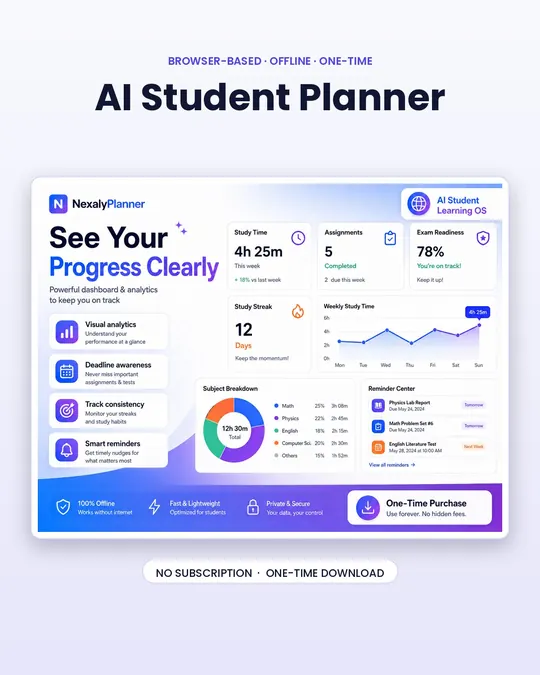
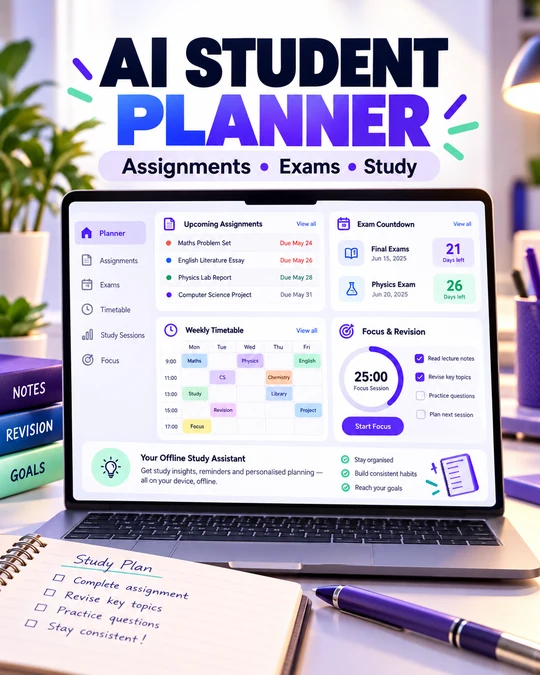
Refresh five product feature thumbnails (#94)

diff --git a/index.html b/index.html
@@ -83,12 +83,12 @@
 <a class="pcard" href="/planners/business-runway-burn-rate-os/" aria-label="Business Runway & Burn Rate OS — Offline Cash Runway Planner"><div class="pcover"><span class="heart"><svg viewBox="0 0 24 24" fill="currentColor"><path d="M12 21s-7-4.6-9.3-8.4C1 9.5 2.4 6 5.6 6c1.9 0 3.2 1.1 4.4 2.6C11.2 7.1 12.5 6 14.4 6c3.2 0 4.6 3.5 2.9 6.6C19 16.4 12 21 12 21z"/></svg></span><img src="/images/products/thumbs/business-runway-burn-rate-os.webp?v=20260928e" alt="Business Runway & Burn Rate OS — Offline Cash Runway Planner" width="400" height="500" loading="eager" fetchpriority="high" decoding="async"></div><div class="pcard-body"><h3>Business Runway & Burn Rate OS — Offline Cash Runway Planner</h3><div class="pr">$11.99</div></div></a>
 <a class="pcard" href="/planners/cashflow-13-os/" aria-label="CashFlow 13 OS — Offline 13-Week Cash Flow Planner"><div class="pcover"><span class="heart"><svg viewBox="0 0 24 24" fill="currentColor"><path d="M12 21s-7-4.6-9.3-8.4C1 9.5 2.4 6 5.6 6c1.9 0 3.2 1.1 4.4 2.6C11.2 7.1 12.5 6 14.4 6c3.2 0 4.6 3.5 2.9 6.6C19 16.4 12 21 12 21z"/></svg></span><img src="/images/products/thumbs/cashflow-13-os.webp?v=20260928e" alt="CashFlow 13 OS — Offline 13-Week Cash Flow Planner" width="400" height="500" loading="lazy" decoding="async"></div><div class="pcard-body"><h3>CashFlow 13 OS — Offline 13-Week Cash Flow Planner</h3><div class="pr">$11.99</div></div></a>
 <a class="pcard" href="/planners/agency-client-profitability-capacity-os/" aria-label="Agency Client Profitability & Capacity OS"><div class="pcover"><span class="heart"><svg viewBox="0 0 24 24" fill="currentColor"><path d="M12 21s-7-4.6-9.3-8.4C1 9.5 2.4 6 5.6 6c1.9 0 3.2 1.1 4.4 2.6C11.2 7.1 12.5 6 14.4 6c3.2 0 4.6 3.5 2.9 6.6C19 16.4 12 21 12 21z"/></svg></span><img src="/images/products/thumbs/agency-client-profitability-capacity-os.webp?v=20260928e" alt="Agency Client Profitability & Capacity OS" width="400" height="500" loading="lazy" decoding="async"></div><div class="pcard-body"><h3>Agency Client Profitability & Capacity OS</h3><div class="pr">$11.99</div></div></a>
-<a class="pcard" href="/planners/renewguard-os/" aria-label="RenewGuard OS — Offline Contract Renewal Operating System"><div class="pcover"><span class="heart"><svg viewBox="0 0 24 24" fill="currentColor"><path d="M12 21s-7-4.6-9.3-8.4C1 9.5 2.4 6 5.6 6c1.9 0 3.2 1.1 4.4 2.6C11.2 7.1 12.5 6 14.4 6c3.2 0 4.6 3.5 2.9 6.6C19 16.4 12 21 12 21z"/></svg></span><img src="/images/products/thumbs/renewguard-os.jpg?v=20260928b" alt="RenewGuard OS — Offline Contract Renewal Operating System" width="400" height="500" loading="lazy" decoding="async"></div><div class="pcard-body"><h3>RenewGuard OS — Offline Contract Renewal Operating System</h3><div class="pr">$11.99</div></div></a>
-<a class="pcard" href="/planners/consignclear-os/" aria-label="ConsignClear OS — Consignment Inventory & Payout Manager"><div class="pcover"><span class="heart"><svg viewBox="0 0 24 24" fill="currentColor"><path d="M12 21s-7-4.6-9.3-8.4C1 9.5 2.4 6 5.6 6c1.9 0 3.2 1.1 4.4 2.6C11.2 7.1 12.5 6 14.4 6c3.2 0 4.6 3.5 2.9 6.6C19 16.4 12 21 12 21z"/></svg></span><img src="/images/products/thumbs/consignclear-os-v3.webp" alt="ConsignClear OS — Consignment Inventory & Payout Manager" width="400" height="500" loading="lazy" decoding="async"></div><div class="pcard-body"><h3>ConsignClear OS — Consignment Inventory & Payout Manager</h3><div class="pr">$11.99</div></div></a>
-<a class="pcard" href="/planners/calibratrack-os/" aria-label="CalibraTrack OS — Calibration & Instrument Service Manager"><div class="pcover"><span class="heart"><svg viewBox="0 0 24 24" fill="currentColor"><path d="M12 21s-7-4.6-9.3-8.4C1 9.5 2.4 6 5.6 6c1.9 0 3.2 1.1 4.4 2.6C11.2 7.1 12.5 6 14.4 6c3.2 0 4.6 3.5 2.9 6.6C19 16.4 12 21 12 21z"/></svg></span><img src="/images/products/thumbs/calibratrack-os-v3.webp" alt="CalibraTrack OS — Calibration & Instrument Service Manager" width="400" height="500" loading="lazy" decoding="async"></div><div class="pcard-body"><h3>CalibraTrack OS — Calibration & Instrument Service Manager</h3><div class="pr">$11.99</div></div></a>
+<a class="pcard" href="/planners/renewguard-os/" aria-label="RenewGuard OS — Offline Contract Renewal Operating System"><div class="pcover"><span class="heart"><svg viewBox="0 0 24 24" fill="currentColor"><path d="M12 21s-7-4.6-9.3-8.4C1 9.5 2.4 6 5.6 6c1.9 0 3.2 1.1 4.4 2.6C11.2 7.1 12.5 6 14.4 6c3.2 0 4.6 3.5 2.9 6.6C19 16.4 12 21 12 21z"/></svg></span><img src="/images/products/thumbs/renewguard-os.jpg?v=20260928g" alt="RenewGuard OS — Offline Contract Renewal Operating System" width="400" height="500" loading="lazy" decoding="async"></div><div class="pcard-body"><h3>RenewGuard OS — Offline Contract Renewal Operating System</h3><div class="pr">$11.99</div></div></a>
+<a class="pcard" href="/planners/consignclear-os/" aria-label="ConsignClear OS — Consignment Inventory & Payout Manager"><div class="pcover"><span class="heart"><svg viewBox="0 0 24 24" fill="currentColor"><path d="M12 21s-7-4.6-9.3-8.4C1 9.5 2.4 6 5.6 6c1.9 0 3.2 1.1 4.4 2.6C11.2 7.1 12.5 6 14.4 6c3.2 0 4.6 3.5 2.9 6.6C19 16.4 12 21 12 21z"/></svg></span><img src="/images/products/thumbs/consignclear-os-v3.webp?v=20260928g" alt="ConsignClear OS — Consignment Inventory & Payout Manager" width="400" height="500" loading="lazy" decoding="async"></div><div class="pcard-body"><h3>ConsignClear OS — Consignment Inventory & Payout Manager</h3><div class="pr">$11.99</div></div></a>
+<a class="pcard" href="/planners/calibratrack-os/" aria-label="CalibraTrack OS — Calibration & Instrument Service Manager"><div class="pcover"><span class="heart"><svg viewBox="0 0 24 24" fill="currentColor"><path d="M12 21s-7-4.6-9.3-8.4C1 9.5 2.4 6 5.6 6c1.9 0 3.2 1.1 4.4 2.6C11.2 7.1 12.5 6 14.4 6c3.2 0 4.6 3.5 2.9 6.6C19 16.4 12 21 12 21z"/></svg></span><img src="/images/products/thumbs/calibratrack-os-v3.webp?v=20260928g" alt="CalibraTrack OS — Calibration & Instrument Service Manager" width="400" height="500" loading="lazy" decoding="async"></div><div class="pcard-body"><h3>CalibraTrack OS — Calibration & Instrument Service Manager</h3><div class="pr">$11.99</div></div></a>
 <a class="pcard" href="/planners/repairbench-os/" aria-label="RepairBench OS — Small Engine Repair Shop Manager"><div class="pcover"><span class="heart"><svg viewBox="0 0 24 24" fill="currentColor"><path d="M12 21s-7-4.6-9.3-8.4C1 9.5 2.4 6 5.6 6c1.9 0 3.2 1.1 4.4 2.6C11.2 7.1 12.5 6 14.4 6c3.2 0 4.6 3.5 2.9 6.6C19 16.4 12 21 12 21z"/></svg></span><img src="/images/products/thumbs/repairbench-os.webp?v=20260928d" alt="RepairBench OS — Small Engine Repair Shop Manager" width="400" height="500" loading="lazy" decoding="async"></div><div class="pcard-body"><h3>RepairBench OS — Small Engine Repair Shop Manager</h3><div class="pr">$11.99</div></div></a>
-<a class="pcard" href="/planners/ai-student-planner/" aria-label="AI Student Planner — Offline Study Planner, Assignment Tracker & Exam Planner"><div class="pcover"><span class="heart"><svg viewBox="0 0 24 24" fill="currentColor"><path d="M12 21s-7-4.6-9.3-8.4C1 9.5 2.4 6 5.6 6c1.9 0 3.2 1.1 4.4 2.6C11.2 7.1 12.5 6 14.4 6c3.2 0 4.6 3.5 2.9 6.6C19 16.4 12 21 12 21z"/></svg></span><img src="/images/products/thumbs/ai-student-planner.webp" alt="AI Student Planner — Offline Study Planner, Assignment Tracker & Exam Planner" width="400" height="500" loading="lazy" decoding="async"></div><div class="pcard-body"><h3>AI Student Planner — Offline Study Planner, Assignment Tracker & Exam Planner</h3><div class="pr">$11.99</div></div></a>
-<a class="pcard" href="/planners/digital-homeschool-planner/" aria-label="Digital Homeschool Planner — Offline Multi-Kid Dashboard, Gradebook & Transcript"><div class="pcover"><span class="heart"><svg viewBox="0 0 24 24" fill="currentColor"><path d="M12 21s-7-4.6-9.3-8.4C1 9.5 2.4 6 5.6 6c1.9 0 3.2 1.1 4.4 2.6C11.2 7.1 12.5 6 14.4 6c3.2 0 4.6 3.5 2.9 6.6C19 16.4 12 21 12 21z"/></svg></span><img src="/images/products/thumbs/digital-homeschool-planner.webp" alt="Digital Homeschool Planner — Offline Multi-Kid Dashboard, Gradebook & Transcript" width="400" height="500" loading="lazy" decoding="async"></div><div class="pcard-body"><h3>Digital Homeschool Planner — Offline Multi-Kid Dashboard, Gradebook & Transcript</h3><div class="pr">$11.99</div></div></a>
+<a class="pcard" href="/planners/ai-student-planner/" aria-label="AI Student Planner — Offline Study Planner, Assignment Tracker & Exam Planner"><div class="pcover"><span class="heart"><svg viewBox="0 0 24 24" fill="currentColor"><path d="M12 21s-7-4.6-9.3-8.4C1 9.5 2.4 6 5.6 6c1.9 0 3.2 1.1 4.4 2.6C11.2 7.1 12.5 6 14.4 6c3.2 0 4.6 3.5 2.9 6.6C19 16.4 12 21 12 21z"/></svg></span><img src="/images/products/thumbs/ai-student-planner.webp?v=20260928g" alt="AI Student Planner — Offline Study Planner, Assignment Tracker & Exam Planner" width="400" height="500" loading="lazy" decoding="async"></div><div class="pcard-body"><h3>AI Student Planner — Offline Study Planner, Assignment Tracker & Exam Planner</h3><div class="pr">$11.99</div></div></a>
+<a class="pcard" href="/planners/digital-homeschool-planner/" aria-label="Digital Homeschool Planner — Offline Multi-Kid Dashboard, Gradebook & Transcript"><div class="pcover"><span class="heart"><svg viewBox="0 0 24 24" fill="currentColor"><path d="M12 21s-7-4.6-9.3-8.4C1 9.5 2.4 6 5.6 6c1.9 0 3.2 1.1 4.4 2.6C11.2 7.1 12.5 6 14.4 6c3.2 0 4.6 3.5 2.9 6.6C19 16.4 12 21 12 21z"/></svg></span><img src="/images/products/thumbs/digital-homeschool-planner.webp?v=20260928g" alt="Digital Homeschool Planner — Offline Multi-Kid Dashboard, Gradebook & Transcript" width="400" height="500" loading="lazy" decoding="async"></div><div class="pcard-body"><h3>Digital Homeschool Planner — Offline Multi-Kid Dashboard, Gradebook & Transcript</h3><div class="pr">$11.99</div></div></a>
 <a class="pcard" href="/planners/adhd-digital-planner/" aria-label="ADHD Digital Planner — Focus, Tasks, Routines & Goals"><div class="pcover"><span class="heart"><svg viewBox="0 0 24 24" fill="currentColor"><path d="M12 21s-7-4.6-9.3-8.4C1 9.5 2.4 6 5.6 6c1.9 0 3.2 1.1 4.4 2.6C11.2 7.1 12.5 6 14.4 6c3.2 0 4.6 3.5 2.9 6.6C19 16.4 12 21 12 21z"/></svg></span><img src="/images/products/thumbs/adhd-digital-planner.webp?v=20260928b" alt="ADHD Digital Planner — Focus, Tasks, Routines & Goals" width="400" height="500" loading="lazy" decoding="async" style="object-fit:contain;object-position:center;background:#0f1726"></div><div class="pcard-body"><h3>ADHD Digital Planner — Focus, Tasks, Routines & Goals</h3><div class="pr">$11.99</div></div></a>
 <a class="pcard" href="/planners/boutique-business-planner/" aria-label="Boutique Business Planner — Orders, Inventory, Pricing & Profit Dashboard"><div class="pcover"><span class="heart"><svg viewBox="0 0 24 24" fill="currentColor"><path d="M12 21s-7-4.6-9.3-8.4C1 9.5 2.4 6 5.6 6c1.9 0 3.2 1.1 4.4 2.6C11.2 7.1 12.5 6 14.4 6c3.2 0 4.6 3.5 2.9 6.6C19 16.4 12 21 12 21z"/></svg></span><img src="/images/products/thumbs/boutique-business-planner.webp?v=20260928c" alt="Boutique Business Planner — Orders, Inventory, Pricing & Profit Dashboard" width="400" height="500" loading="lazy" decoding="async" style="object-fit:contain;object-position:center;background:#0f1726"></div><div class="pcard-body"><h3>Boutique Business Planner — Orders, Inventory, Pricing & Profit Dashboard</h3><div class="pr">$11.99</div></div></a>
 <a class="pcard" href="/planners/small-business-planner-2026-2028/" aria-label="2026–2028 Small Business Planner — Goals, Tasks, Habits & Finance Tracker"><div class="pcover"><span class="heart"><svg viewBox="0 0 24 24" fill="currentColor"><path d="M12 21s-7-4.6-9.3-8.4C1 9.5 2.4 6 5.6 6c1.9 0 3.2 1.1 4.4 2.6C11.2 7.1 12.5 6 14.4 6c3.2 0 4.6 3.5 2.9 6.6C19 16.4 12 21 12 21z"/></svg></span><img src="/images/products/thumbs/small-business-planner-2026-2028.webp?v=20260928b" alt="2026–2028 Small Business Planner — Goals, Tasks, Habits & Finance Tracker" width="400" height="500" loading="lazy" decoding="async" style="object-fit:contain;object-position:center;background:#0f1726"></div><div class="pcard-body"><h3>2026–2028 Small Business Planner — Goals, Tasks, Habits & Finance Tracker</h3><div class="pr">$11.99</div></div></a>
@@ -156,6 +156,6 @@
     <div class="foot-bottom"><span>© 2026 Nexaly Planner. All rights reserved.</span><span>Made for people who like their days organized.</span></div>
   </div>
 </footer>
-<script src="/assets/js/main.js?v=4b9ec8816b4b"></script>
+<script src="/assets/js/main.js?v=938bbfec9e02"></script>
 </body>
 </html>

diff --git a/planners/index.html b/planners/index.html
@@ -64,12 +64,12 @@
 <a class="pcard" href="/planners/business-runway-burn-rate-os/" aria-label="Business Runway & Burn Rate OS — Offline Cash Runway Planner"><div class="pcover"><span class="heart"><svg viewBox="0 0 24 24" fill="currentColor"><path d="M12 21s-7-4.6-9.3-8.4C1 9.5 2.4 6 5.6 6c1.9 0 3.2 1.1 4.4 2.6C11.2 7.1 12.5 6 14.4 6c3.2 0 4.6 3.5 2.9 6.6C19 16.4 12 21 12 21z"/></svg></span><img src="/images/products/thumbs/business-runway-burn-rate-os.webp?v=20260928e" alt="Business Runway & Burn Rate OS — Offline Cash Runway Planner" width="400" height="500" loading="eager" fetchpriority="high" decoding="async"></div><div class="pcard-body"><h3>Business Runway & Burn Rate OS — Offline Cash Runway Planner</h3><div class="pr">$11.99</div></div></a>
 <a class="pcard" href="/planners/cashflow-13-os/" aria-label="CashFlow 13 OS — Offline 13-Week Cash Flow Planner"><div class="pcover"><span class="heart"><svg viewBox="0 0 24 24" fill="currentColor"><path d="M12 21s-7-4.6-9.3-8.4C1 9.5 2.4 6 5.6 6c1.9 0 3.2 1.1 4.4 2.6C11.2 7.1 12.5 6 14.4 6c3.2 0 4.6 3.5 2.9 6.6C19 16.4 12 21 12 21z"/></svg></span><img src="/images/products/thumbs/cashflow-13-os.webp?v=20260928e" alt="CashFlow 13 OS — Offline 13-Week Cash Flow Planner" width="400" height="500" loading="lazy" decoding="async"></div><div class="pcard-body"><h3>CashFlow 13 OS — Offline 13-Week Cash Flow Planner</h3><div class="pr">$11.99</div></div></a>
 <a class="pcard" href="/planners/agency-client-profitability-capacity-os/" aria-label="Agency Client Profitability & Capacity OS"><div class="pcover"><span class="heart"><svg viewBox="0 0 24 24" fill="currentColor"><path d="M12 21s-7-4.6-9.3-8.4C1 9.5 2.4 6 5.6 6c1.9 0 3.2 1.1 4.4 2.6C11.2 7.1 12.5 6 14.4 6c3.2 0 4.6 3.5 2.9 6.6C19 16.4 12 21 12 21z"/></svg></span><img src="/images/products/thumbs/agency-client-profitability-capacity-os.webp?v=20260928e" alt="Agency Client Profitability & Capacity OS" width="400" height="500" loading="lazy" decoding="async"></div><div class="pcard-body"><h3>Agency Client Profitability & Capacity OS</h3><div class="pr">$11.99</div></div></a>
-<a class="pcard" href="/planners/renewguard-os/" aria-label="RenewGuard OS — Offline Contract Renewal Operating System"><div class="pcover"><span class="heart"><svg viewBox="0 0 24 24" fill="currentColor"><path d="M12 21s-7-4.6-9.3-8.4C1 9.5 2.4 6 5.6 6c1.9 0 3.2 1.1 4.4 2.6C11.2 7.1 12.5 6 14.4 6c3.2 0 4.6 3.5 2.9 6.6C19 16.4 12 21 12 21z"/></svg></span><img src="/images/products/thumbs/renewguard-os.jpg?v=20260928b" alt="RenewGuard OS — Offline Contract Renewal Operating System" width="400" height="500" loading="lazy" decoding="async"></div><div class="pcard-body"><h3>RenewGuard OS — Offline Contract Renewal Operating System</h3><div class="pr">$11.99</div></div></a>
-<a class="pcard" href="/planners/consignclear-os/" aria-label="ConsignClear OS — Consignment Inventory & Payout Manager"><div class="pcover"><span class="heart"><svg viewBox="0 0 24 24" fill="currentColor"><path d="M12 21s-7-4.6-9.3-8.4C1 9.5 2.4 6 5.6 6c1.9 0 3.2 1.1 4.4 2.6C11.2 7.1 12.5 6 14.4 6c3.2 0 4.6 3.5 2.9 6.6C19 16.4 12 21 12 21z"/></svg></span><img src="/images/products/thumbs/consignclear-os-v3.webp" alt="ConsignClear OS — Consignment Inventory & Payout Manager" width="400" height="500" loading="lazy" decoding="async"></div><div class="pcard-body"><h3>ConsignClear OS — Consignment Inventory & Payout Manager</h3><div class="pr">$11.99</div></div></a>
-<a class="pcard" href="/planners/calibratrack-os/" aria-label="CalibraTrack OS — Calibration & Instrument Service Manager"><div class="pcover"><span class="heart"><svg viewBox="0 0 24 24" fill="currentColor"><path d="M12 21s-7-4.6-9.3-8.4C1 9.5 2.4 6 5.6 6c1.9 0 3.2 1.1 4.4 2.6C11.2 7.1 12.5 6 14.4 6c3.2 0 4.6 3.5 2.9 6.6C19 16.4 12 21 12 21z"/></svg></span><img src="/images/products/thumbs/calibratrack-os-v3.webp" alt="CalibraTrack OS — Calibration & Instrument Service Manager" width="400" height="500" loading="lazy" decoding="async"></div><div class="pcard-body"><h3>CalibraTrack OS — Calibration & Instrument Service Manager</h3><div class="pr">$11.99</div></div></a>
+<a class="pcard" href="/planners/renewguard-os/" aria-label="RenewGuard OS — Offline Contract Renewal Operating System"><div class="pcover"><span class="heart"><svg viewBox="0 0 24 24" fill="currentColor"><path d="M12 21s-7-4.6-9.3-8.4C1 9.5 2.4 6 5.6 6c1.9 0 3.2 1.1 4.4 2.6C11.2 7.1 12.5 6 14.4 6c3.2 0 4.6 3.5 2.9 6.6C19 16.4 12 21 12 21z"/></svg></span><img src="/images/products/thumbs/renewguard-os.jpg?v=20260928g" alt="RenewGuard OS — Offline Contract Renewal Operating System" width="400" height="500" loading="lazy" decoding="async"></div><div class="pcard-body"><h3>RenewGuard OS — Offline Contract Renewal Operating System</h3><div class="pr">$11.99</div></div></a>
+<a class="pcard" href="/planners/consignclear-os/" aria-label="ConsignClear OS — Consignment Inventory & Payout Manager"><div class="pcover"><span class="heart"><svg viewBox="0 0 24 24" fill="currentColor"><path d="M12 21s-7-4.6-9.3-8.4C1 9.5 2.4 6 5.6 6c1.9 0 3.2 1.1 4.4 2.6C11.2 7.1 12.5 6 14.4 6c3.2 0 4.6 3.5 2.9 6.6C19 16.4 12 21 12 21z"/></svg></span><img src="/images/products/thumbs/consignclear-os-v3.webp?v=20260928g" alt="ConsignClear OS — Consignment Inventory & Payout Manager" width="400" height="500" loading="lazy" decoding="async"></div><div class="pcard-body"><h3>ConsignClear OS — Consignment Inventory & Payout Manager</h3><div class="pr">$11.99</div></div></a>
+<a class="pcard" href="/planners/calibratrack-os/" aria-label="CalibraTrack OS — Calibration & Instrument Service Manager"><div class="pcover"><span class="heart"><svg viewBox="0 0 24 24" fill="currentColor"><path d="M12 21s-7-4.6-9.3-8.4C1 9.5 2.4 6 5.6 6c1.9 0 3.2 1.1 4.4 2.6C11.2 7.1 12.5 6 14.4 6c3.2 0 4.6 3.5 2.9 6.6C19 16.4 12 21 12 21z"/></svg></span><img src="/images/products/thumbs/calibratrack-os-v3.webp?v=20260928g" alt="CalibraTrack OS — Calibration & Instrument Service Manager" width="400" height="500" loading="lazy" decoding="async"></div><div class="pcard-body"><h3>CalibraTrack OS — Calibration & Instrument Service Manager</h3><div class="pr">$11.99</div></div></a>
 <a class="pcard" href="/planners/repairbench-os/" aria-label="RepairBench OS — Small Engine Repair Shop Manager"><div class="pcover"><span class="heart"><svg viewBox="0 0 24 24" fill="currentColor"><path d="M12 21s-7-4.6-9.3-8.4C1 9.5 2.4 6 5.6 6c1.9 0 3.2 1.1 4.4 2.6C11.2 7.1 12.5 6 14.4 6c3.2 0 4.6 3.5 2.9 6.6C19 16.4 12 21 12 21z"/></svg></span><img src="/images/products/thumbs/repairbench-os.webp?v=20260928d" alt="RepairBench OS — Small Engine Repair Shop Manager" width="400" height="500" loading="lazy" decoding="async"></div><div class="pcard-body"><h3>RepairBench OS — Small Engine Repair Shop Manager</h3><div class="pr">$11.99</div></div></a>
-<a class="pcard" href="/planners/ai-student-planner/" aria-label="AI Student Planner — Offline Study Planner, Assignment Tracker & Exam Planner"><div class="pcover"><span class="heart"><svg viewBox="0 0 24 24" fill="currentColor"><path d="M12 21s-7-4.6-9.3-8.4C1 9.5 2.4 6 5.6 6c1.9 0 3.2 1.1 4.4 2.6C11.2 7.1 12.5 6 14.4 6c3.2 0 4.6 3.5 2.9 6.6C19 16.4 12 21 12 21z"/></svg></span><img src="/images/products/thumbs/ai-student-planner.webp" alt="AI Student Planner — Offline Study Planner, Assignment Tracker & Exam Planner" width="400" height="500" loading="lazy" decoding="async"></div><div class="pcard-body"><h3>AI Student Planner — Offline Study Planner, Assignment Tracker & Exam Planner</h3><div class="pr">$11.99</div></div></a>
-<a class="pcard" href="/planners/digital-homeschool-planner/" aria-label="Digital Homeschool Planner — Offline Multi-Kid Dashboard, Gradebook & Transcript"><div class="pcover"><span class="heart"><svg viewBox="0 0 24 24" fill="currentColor"><path d="M12 21s-7-4.6-9.3-8.4C1 9.5 2.4 6 5.6 6c1.9 0 3.2 1.1 4.4 2.6C11.2 7.1 12.5 6 14.4 6c3.2 0 4.6 3.5 2.9 6.6C19 16.4 12 21 12 21z"/></svg></span><img src="/images/products/thumbs/digital-homeschool-planner.webp" alt="Digital Homeschool Planner — Offline Multi-Kid Dashboard, Gradebook & Transcript" width="400" height="500" loading="lazy" decoding="async"></div><div class="pcard-body"><h3>Digital Homeschool Planner — Offline Multi-Kid Dashboard, Gradebook & Transcript</h3><div class="pr">$11.99</div></div></a>
+<a class="pcard" href="/planners/ai-student-planner/" aria-label="AI Student Planner — Offline Study Planner, Assignment Tracker & Exam Planner"><div class="pcover"><span class="heart"><svg viewBox="0 0 24 24" fill="currentColor"><path d="M12 21s-7-4.6-9.3-8.4C1 9.5 2.4 6 5.6 6c1.9 0 3.2 1.1 4.4 2.6C11.2 7.1 12.5 6 14.4 6c3.2 0 4.6 3.5 2.9 6.6C19 16.4 12 21 12 21z"/></svg></span><img src="/images/products/thumbs/ai-student-planner.webp?v=20260928g" alt="AI Student Planner — Offline Study Planner, Assignment Tracker & Exam Planner" width="400" height="500" loading="lazy" decoding="async"></div><div class="pcard-body"><h3>AI Student Planner — Offline Study Planner, Assignment Tracker & Exam Planner</h3><div class="pr">$11.99</div></div></a>
+<a class="pcard" href="/planners/digital-homeschool-planner/" aria-label="Digital Homeschool Planner — Offline Multi-Kid Dashboard, Gradebook & Transcript"><div class="pcover"><span class="heart"><svg viewBox="0 0 24 24" fill="currentColor"><path d="M12 21s-7-4.6-9.3-8.4C1 9.5 2.4 6 5.6 6c1.9 0 3.2 1.1 4.4 2.6C11.2 7.1 12.5 6 14.4 6c3.2 0 4.6 3.5 2.9 6.6C19 16.4 12 21 12 21z"/></svg></span><img src="/images/products/thumbs/digital-homeschool-planner.webp?v=20260928g" alt="Digital Homeschool Planner — Offline Multi-Kid Dashboard, Gradebook & Transcript" width="400" height="500" loading="lazy" decoding="async"></div><div class="pcard-body"><h3>Digital Homeschool Planner — Offline Multi-Kid Dashboard, Gradebook & Transcript</h3><div class="pr">$11.99</div></div></a>
 <a class="pcard" href="/planners/adhd-digital-planner/" aria-label="ADHD Digital Planner — Focus, Tasks, Routines & Goals"><div class="pcover"><span class="heart"><svg viewBox="0 0 24 24" fill="currentColor"><path d="M12 21s-7-4.6-9.3-8.4C1 9.5 2.4 6 5.6 6c1.9 0 3.2 1.1 4.4 2.6C11.2 7.1 12.5 6 14.4 6c3.2 0 4.6 3.5 2.9 6.6C19 16.4 12 21 12 21z"/></svg></span><img src="/images/products/thumbs/adhd-digital-planner.webp?v=20260928b" alt="ADHD Digital Planner — Focus, Tasks, Routines & Goals" width="400" height="500" loading="lazy" decoding="async" style="object-fit:contain;object-position:center;background:#0f1726"></div><div class="pcard-body"><h3>ADHD Digital Planner — Focus, Tasks, Routines & Goals</h3><div class="pr">$11.99</div></div></a>
 <a class="pcard" href="/planners/boutique-business-planner/" aria-label="Boutique Business Planner — Orders, Inventory, Pricing & Profit Dashboard"><div class="pcover"><span class="heart"><svg viewBox="0 0 24 24" fill="currentColor"><path d="M12 21s-7-4.6-9.3-8.4C1 9.5 2.4 6 5.6 6c1.9 0 3.2 1.1 4.4 2.6C11.2 7.1 12.5 6 14.4 6c3.2 0 4.6 3.5 2.9 6.6C19 16.4 12 21 12 21z"/></svg></span><img src="/images/products/thumbs/boutique-business-planner.webp?v=20260928c" alt="Boutique Business Planner — Orders, Inventory, Pricing & Profit Dashboard" width="400" height="500" loading="lazy" decoding="async" style="object-fit:contain;object-position:center;background:#0f1726"></div><div class="pcard-body"><h3>Boutique Business Planner — Orders, Inventory, Pricing & Profit Dashboard</h3><div class="pr">$11.99</div></div></a>
 <a class="pcard" href="/planners/small-business-planner-2026-2028/" aria-label="2026–2028 Small Business Planner — Goals, Tasks, Habits & Finance Tracker"><div class="pcover"><span class="heart"><svg viewBox="0 0 24 24" fill="currentColor"><path d="M12 21s-7-4.6-9.3-8.4C1 9.5 2.4 6 5.6 6c1.9 0 3.2 1.1 4.4 2.6C11.2 7.1 12.5 6 14.4 6c3.2 0 4.6 3.5 2.9 6.6C19 16.4 12 21 12 21z"/></svg></span><img src="/images/products/thumbs/small-business-planner-2026-2028.webp?v=20260928b" alt="2026–2028 Small Business Planner — Goals, Tasks, Habits & Finance Tracker" width="400" height="500" loading="lazy" decoding="async" style="object-fit:contain;object-position:center;background:#0f1726"></div><div class="pcard-body"><h3>2026–2028 Small Business Planner — Goals, Tasks, Habits & Finance Tracker</h3><div class="pr">$11.99</div></div></a>
@@ -134,6 +134,6 @@
     <div class="foot-bottom"><span>© 2026 Nexaly Planner. All rights reserved.</span><span>Made for people who like their days organized.</span></div>
   </div>
 </footer>
-<script src="/assets/js/main.js?v=4b9ec8816b4b"></script>
+<script src="/assets/js/main.js?v=938bbfec9e02"></script>
 </body>
 </html>

diff --git a/planners/business-operating-systems/index.html b/planners/business-operating-systems/index.html
@@ -64,9 +64,9 @@
 <a class="pcard" href="/planners/business-runway-burn-rate-os/" aria-label="Business Runway & Burn Rate OS — Offline Cash Runway Planner"><div class="pcover"><span class="heart"><svg viewBox="0 0 24 24" fill="currentColor"><path d="M12 21s-7-4.6-9.3-8.4C1 9.5 2.4 6 5.6 6c1.9 0 3.2 1.1 4.4 2.6C11.2 7.1 12.5 6 14.4 6c3.2 0 4.6 3.5 2.9 6.6C19 16.4 12 21 12 21z"/></svg></span><img src="/images/products/thumbs/business-runway-burn-rate-os.webp?v=20260928e" alt="Business Runway & Burn Rate OS — Offline Cash Runway Planner" width="400" height="500" loading="eager" fetchpriority="high" decoding="async"></div><div class="pcard-body"><h3>Business Runway & Burn Rate OS — Offline Cash Runway Planner</h3><div class="pr">$11.99</div></div></a>
 <a class="pcard" href="/planners/cashflow-13-os/" aria-label="CashFlow 13 OS — Offline 13-Week Cash Flow Planner"><div class="pcover"><span class="heart"><svg viewBox="0 0 24 24" fill="currentColor"><path d="M12 21s-7-4.6-9.3-8.4C1 9.5 2.4 6 5.6 6c1.9 0 3.2 1.1 4.4 2.6C11.2 7.1 12.5 6 14.4 6c3.2 0 4.6 3.5 2.9 6.6C19 16.4 12 21 12 21z"/></svg></span><img src="/images/products/thumbs/cashflow-13-os.webp?v=20260928e" alt="CashFlow 13 OS — Offline 13-Week Cash Flow Planner" width="400" height="500" loading="lazy" decoding="async"></div><div class="pcard-body"><h3>CashFlow 13 OS — Offline 13-Week Cash Flow Planner</h3><div class="pr">$11.99</div></div></a>
 <a class="pcard" href="/planners/agency-client-profitability-capacity-os/" aria-label="Agency Client Profitability & Capacity OS"><div class="pcover"><span class="heart"><svg viewBox="0 0 24 24" fill="currentColor"><path d="M12 21s-7-4.6-9.3-8.4C1 9.5 2.4 6 5.6 6c1.9 0 3.2 1.1 4.4 2.6C11.2 7.1 12.5 6 14.4 6c3.2 0 4.6 3.5 2.9 6.6C19 16.4 12 21 12 21z"/></svg></span><img src="/images/products/thumbs/agency-client-profitability-capacity-os.webp?v=20260928e" alt="Agency Client Profitability & Capacity OS" width="400" height="500" loading="lazy" decoding="async"></div><div class="pcard-body"><h3>Agency Client Profitability & Capacity OS</h3><div class="pr">$11.99</div></div></a>
-<a class="pcard" href="/planners/renewguard-os/" aria-label="RenewGuard OS — Offline Contract Renewal Operating System"><div class="pcover"><span class="heart"><svg viewBox="0 0 24 24" fill="currentColor"><path d="M12 21s-7-4.6-9.3-8.4C1 9.5 2.4 6 5.6 6c1.9 0 3.2 1.1 4.4 2.6C11.2 7.1 12.5 6 14.4 6c3.2 0 4.6 3.5 2.9 6.6C19 16.4 12 21 12 21z"/></svg></span><img src="/images/products/thumbs/renewguard-os.jpg?v=20260928b" alt="RenewGuard OS — Offline Contract Renewal Operating System" width="400" height="500" loading="lazy" decoding="async"></div><div class="pcard-body"><h3>RenewGuard OS — Offline Contract Renewal Operating System</h3><div class="pr">$11.99</div></div></a>
-<a class="pcard" href="/planners/consignclear-os/" aria-label="ConsignClear OS — Consignment Inventory & Payout Manager"><div class="pcover"><span class="heart"><svg viewBox="0 0 24 24" fill="currentColor"><path d="M12 21s-7-4.6-9.3-8.4C1 9.5 2.4 6 5.6 6c1.9 0 3.2 1.1 4.4 2.6C11.2 7.1 12.5 6 14.4 6c3.2 0 4.6 3.5 2.9 6.6C19 16.4 12 21 12 21z"/></svg></span><img src="/images/products/thumbs/consignclear-os-v3.webp" alt="ConsignClear OS — Consignment Inventory & Payout Manager" width="400" height="500" loading="lazy" decoding="async"></div><div class="pcard-body"><h3>ConsignClear OS — Consignment Inventory & Payout Manager</h3><div class="pr">$11.99</div></div></a>
-<a class="pcard" href="/planners/calibratrack-os/" aria-label="CalibraTrack OS — Calibration & Instrument Service Manager"><div class="pcover"><span class="heart"><svg viewBox="0 0 24 24" fill="currentColor"><path d="M12 21s-7-4.6-9.3-8.4C1 9.5 2.4 6 5.6 6c1.9 0 3.2 1.1 4.4 2.6C11.2 7.1 12.5 6 14.4 6c3.2 0 4.6 3.5 2.9 6.6C19 16.4 12 21 12 21z"/></svg></span><img src="/images/products/thumbs/calibratrack-os-v3.webp" alt="CalibraTrack OS — Calibration & Instrument Service Manager" width="400" height="500" loading="lazy" decoding="async"></div><div class="pcard-body"><h3>CalibraTrack OS — Calibration & Instrument Service Manager</h3><div class="pr">$11.99</div></div></a>
+<a class="pcard" href="/planners/renewguard-os/" aria-label="RenewGuard OS — Offline Contract Renewal Operating System"><div class="pcover"><span class="heart"><svg viewBox="0 0 24 24" fill="currentColor"><path d="M12 21s-7-4.6-9.3-8.4C1 9.5 2.4 6 5.6 6c1.9 0 3.2 1.1 4.4 2.6C11.2 7.1 12.5 6 14.4 6c3.2 0 4.6 3.5 2.9 6.6C19 16.4 12 21 12 21z"/></svg></span><img src="/images/products/thumbs/renewguard-os.jpg?v=20260928g" alt="RenewGuard OS — Offline Contract Renewal Operating System" width="400" height="500" loading="lazy" decoding="async"></div><div class="pcard-body"><h3>RenewGuard OS — Offline Contract Renewal Operating System</h3><div class="pr">$11.99</div></div></a>
+<a class="pcard" href="/planners/consignclear-os/" aria-label="ConsignClear OS — Consignment Inventory & Payout Manager"><div class="pcover"><span class="heart"><svg viewBox="0 0 24 24" fill="currentColor"><path d="M12 21s-7-4.6-9.3-8.4C1 9.5 2.4 6 5.6 6c1.9 0 3.2 1.1 4.4 2.6C11.2 7.1 12.5 6 14.4 6c3.2 0 4.6 3.5 2.9 6.6C19 16.4 12 21 12 21z"/></svg></span><img src="/images/products/thumbs/consignclear-os-v3.webp?v=20260928g" alt="ConsignClear OS — Consignment Inventory & Payout Manager" width="400" height="500" loading="lazy" decoding="async"></div><div class="pcard-body"><h3>ConsignClear OS — Consignment Inventory & Payout Manager</h3><div class="pr">$11.99</div></div></a>
+<a class="pcard" href="/planners/calibratrack-os/" aria-label="CalibraTrack OS — Calibration & Instrument Service Manager"><div class="pcover"><span class="heart"><svg viewBox="0 0 24 24" fill="currentColor"><path d="M12 21s-7-4.6-9.3-8.4C1 9.5 2.4 6 5.6 6c1.9 0 3.2 1.1 4.4 2.6C11.2 7.1 12.5 6 14.4 6c3.2 0 4.6 3.5 2.9 6.6C19 16.4 12 21 12 21z"/></svg></span><img src="/images/products/thumbs/calibratrack-os-v3.webp?v=20260928g" alt="CalibraTrack OS — Calibration & Instrument Service Manager" width="400" height="500" loading="lazy" decoding="async"></div><div class="pcard-body"><h3>CalibraTrack OS — Calibration & Instrument Service Manager</h3><div class="pr">$11.99</div></div></a>
 <a class="pcard" href="/planners/repairbench-os/" aria-label="RepairBench OS — Small Engine Repair Shop Manager"><div class="pcover"><span class="heart"><svg viewBox="0 0 24 24" fill="currentColor"><path d="M12 21s-7-4.6-9.3-8.4C1 9.5 2.4 6 5.6 6c1.9 0 3.2 1.1 4.4 2.6C11.2 7.1 12.5 6 14.4 6c3.2 0 4.6 3.5 2.9 6.6C19 16.4 12 21 12 21z"/></svg></span><img src="/images/products/thumbs/repairbench-os.webp?v=20260928d" alt="RepairBench OS — Small Engine Repair Shop Manager" width="400" height="500" loading="lazy" decoding="async"></div><div class="pcard-body"><h3>RepairBench OS — Small Engine Repair Shop Manager</h3><div class="pr">$11.99</div></div></a>
 <a class="pcard" href="/planners/inventory-procurement-planner/" aria-label="Offline Inventory & Procurement Planner — Standalone HTML Business System"><div class="pcover"><span class="heart"><svg viewBox="0 0 24 24" fill="currentColor"><path d="M12 21s-7-4.6-9.3-8.4C1 9.5 2.4 6 5.6 6c1.9 0 3.2 1.1 4.4 2.6C11.2 7.1 12.5 6 14.4 6c3.2 0 4.6 3.5 2.9 6.6C19 16.4 12 21 12 21z"/></svg></span><img src="/images/products/thumbs/inventory-procurement-planner.webp?v=20260928d" alt="Offline Inventory & Procurement Planner — Standalone HTML Business System" width="400" height="500" loading="lazy" decoding="async" style="object-fit:contain;object-position:center;background:#0f1726"></div><div class="pcard-body"><h3>Offline Inventory & Procurement Planner — Standalone HTML Business System</h3><div class="pr">$11.99</div></div></a>
 <a class="pcard" href="/planners/owneros-core/" aria-label="OwnerOS Core: Ultimate Offline Inventory & E-Commerce Manager"><div class="pcover"><span class="heart"><svg viewBox="0 0 24 24" fill="currentColor"><path d="M12 21s-7-4.6-9.3-8.4C1 9.5 2.4 6 5.6 6c1.9 0 3.2 1.1 4.4 2.6C11.2 7.1 12.5 6 14.4 6c3.2 0 4.6 3.5 2.9 6.6C19 16.4 12 21 12 21z"/></svg></span><img src="/images/products/thumbs/owneros-core.webp?v=20260928c" alt="OwnerOS Core: Ultimate Offline Inventory & E-Commerce Manager" width="400" height="500" loading="lazy" decoding="async" style="object-fit:contain;object-position:center;background:#0f1726"></div><div class="pcard-body"><h3>OwnerOS Core: Ultimate Offline Inventory & E-Commerce Manager</h3><div class="pr">$11.99</div></div></a>
@@ -127,6 +127,6 @@
     <div class="foot-bottom"><span>© 2026 Nexaly Planner. All rights reserved.</span><span>Made for people who like their days organized.</span></div>
   </div>
 </footer>
-<script src="/assets/js/main.js?v=4b9ec8816b4b"></script>
+<script src="/assets/js/main.js?v=938bbfec9e02"></script>
 </body>
 </html>

diff --git a/planners/digital-planners/index.html b/planners/digital-planners/index.html
@@ -61,8 +61,8 @@
   </section>
   <section class="pl-wrap">
 <div class="grid" id="allCards" data-cat="Digital Planners">
-<a class="pcard" href="/planners/ai-student-planner/" aria-label="AI Student Planner — Offline Study Planner, Assignment Tracker & Exam Planner"><div class="pcover"><span class="heart"><svg viewBox="0 0 24 24" fill="currentColor"><path d="M12 21s-7-4.6-9.3-8.4C1 9.5 2.4 6 5.6 6c1.9 0 3.2 1.1 4.4 2.6C11.2 7.1 12.5 6 14.4 6c3.2 0 4.6 3.5 2.9 6.6C19 16.4 12 21 12 21z"/></svg></span><img src="/images/products/thumbs/ai-student-planner.webp" alt="AI Student Planner — Offline Study Planner, Assignment Tracker & Exam Planner" width="400" height="500" loading="lazy" decoding="async"></div><div class="pcard-body"><h3>AI Student Planner — Offline Study Planner, Assignment Tracker & Exam Planner</h3><div class="pr">$11.99</div></div></a>
-<a class="pcard" href="/planners/digital-homeschool-planner/" aria-label="Digital Homeschool Planner — Offline Multi-Kid Dashboard, Gradebook & Transcript"><div class="pcover"><span class="heart"><svg viewBox="0 0 24 24" fill="currentColor"><path d="M12 21s-7-4.6-9.3-8.4C1 9.5 2.4 6 5.6 6c1.9 0 3.2 1.1 4.4 2.6C11.2 7.1 12.5 6 14.4 6c3.2 0 4.6 3.5 2.9 6.6C19 16.4 12 21 12 21z"/></svg></span><img src="/images/products/thumbs/digital-homeschool-planner.webp" alt="Digital Homeschool Planner — Offline Multi-Kid Dashboard, Gradebook & Transcript" width="400" height="500" loading="lazy" decoding="async"></div><div class="pcard-body"><h3>Digital Homeschool Planner — Offline Multi-Kid Dashboard, Gradebook & Transcript</h3><div class="pr">$11.99</div></div></a>
+<a class="pcard" href="/planners/ai-student-planner/" aria-label="AI Student Planner — Offline Study Planner, Assignment Tracker & Exam Planner"><div class="pcover"><span class="heart"><svg viewBox="0 0 24 24" fill="currentColor"><path d="M12 21s-7-4.6-9.3-8.4C1 9.5 2.4 6 5.6 6c1.9 0 3.2 1.1 4.4 2.6C11.2 7.1 12.5 6 14.4 6c3.2 0 4.6 3.5 2.9 6.6C19 16.4 12 21 12 21z"/></svg></span><img src="/images/products/thumbs/ai-student-planner.webp?v=20260928g" alt="AI Student Planner — Offline Study Planner, Assignment Tracker & Exam Planner" width="400" height="500" loading="lazy" decoding="async"></div><div class="pcard-body"><h3>AI Student Planner — Offline Study Planner, Assignment Tracker & Exam Planner</h3><div class="pr">$11.99</div></div></a>
+<a class="pcard" href="/planners/digital-homeschool-planner/" aria-label="Digital Homeschool Planner — Offline Multi-Kid Dashboard, Gradebook & Transcript"><div class="pcover"><span class="heart"><svg viewBox="0 0 24 24" fill="currentColor"><path d="M12 21s-7-4.6-9.3-8.4C1 9.5 2.4 6 5.6 6c1.9 0 3.2 1.1 4.4 2.6C11.2 7.1 12.5 6 14.4 6c3.2 0 4.6 3.5 2.9 6.6C19 16.4 12 21 12 21z"/></svg></span><img src="/images/products/thumbs/digital-homeschool-planner.webp?v=20260928g" alt="Digital Homeschool Planner — Offline Multi-Kid Dashboard, Gradebook & Transcript" width="400" height="500" loading="lazy" decoding="async"></div><div class="pcard-body"><h3>Digital Homeschool Planner — Offline Multi-Kid Dashboard, Gradebook & Transcript</h3><div class="pr">$11.99</div></div></a>
 <a class="pcard" href="/planners/adhd-digital-planner/" aria-label="ADHD Digital Planner — Focus, Tasks, Routines & Goals"><div class="pcover"><span class="heart"><svg viewBox="0 0 24 24" fill="currentColor"><path d="M12 21s-7-4.6-9.3-8.4C1 9.5 2.4 6 5.6 6c1.9 0 3.2 1.1 4.4 2.6C11.2 7.1 12.5 6 14.4 6c3.2 0 4.6 3.5 2.9 6.6C19 16.4 12 21 12 21z"/></svg></span><img src="/images/products/thumbs/adhd-digital-planner.webp?v=20260928b" alt="ADHD Digital Planner — Focus, Tasks, Routines & Goals" width="400" height="500" loading="lazy" decoding="async" style="object-fit:contain;object-position:center;background:#0f1726"></div><div class="pcard-body"><h3>ADHD Digital Planner — Focus, Tasks, Routines & Goals</h3><div class="pr">$11.99</div></div></a>
 <a class="pcard" href="/planners/boutique-business-planner/" aria-label="Boutique Business Planner — Orders, Inventory, Pricing & Profit Dashboard"><div class="pcover"><span class="heart"><svg viewBox="0 0 24 24" fill="currentColor"><path d="M12 21s-7-4.6-9.3-8.4C1 9.5 2.4 6 5.6 6c1.9 0 3.2 1.1 4.4 2.6C11.2 7.1 12.5 6 14.4 6c3.2 0 4.6 3.5 2.9 6.6C19 16.4 12 21 12 21z"/></svg></span><img src="/images/products/thumbs/boutique-business-planner.webp?v=20260928c" alt="Boutique Business Planner — Orders, Inventory, Pricing & Profit Dashboard" width="400" height="500" loading="lazy" decoding="async" style="object-fit:contain;object-position:center;background:#0f1726"></div><div class="pcard-body"><h3>Boutique Business Planner — Orders, Inventory, Pricing & Profit Dashboard</h3><div class="pr">$11.99</div></div></a>
 <a class="pcard" href="/planners/small-business-planner-2026-2028/" aria-label="2026–2028 Small Business Planner — Goals, Tasks, Habits & Finance Tracker"><div class="pcover"><span class="heart"><svg viewBox="0 0 24 24" fill="currentColor"><path d="M12 21s-7-4.6-9.3-8.4C1 9.5 2.4 6 5.6 6c1.9 0 3.2 1.1 4.4 2.6C11.2 7.1 12.5 6 14.4 6c3.2 0 4.6 3.5 2.9 6.6C19 16.4 12 21 12 21z"/></svg></span><img src="/images/products/thumbs/small-business-planner-2026-2028.webp?v=20260928b" alt="2026–2028 Small Business Planner — Goals, Tasks, Habits & Finance Tracker" width="400" height="500" loading="lazy" decoding="async" style="object-fit:contain;object-position:center;background:#0f1726"></div><div class="pcard-body"><h3>2026–2028 Small Business Planner — Goals, Tasks, Habits & Finance Tracker</h3><div class="pr">$11.99</div></div></a>
@@ -120,6 +120,6 @@
     <div class="foot-bottom"><span>© 2026 Nexaly Planner. All rights reserved.</span><span>Made for people who like their days organized.</span></div>
   </div>
 </footer>
-<script src="/assets/js/main.js?v=4b9ec8816b4b"></script>
+<script src="/assets/js/main.js?v=938bbfec9e02"></script>
 </body>
 </html>

diff --git a/assets/js/main.js b/assets/js/main.js
@@ -53,7 +53,7 @@ var products = [
     "desc": "Track vendor contracts, renewal dates, cancellation notice windows and annualized costs in a private offline app. Review commitments before they roll over.",
     "price": 11.99,
     "img": "/images/products/renewguard-os.jpg",
-    "thumb": "/images/products/thumbs/renewguard-os.jpg?v=20260928b",
+    "thumb": "/images/products/thumbs/renewguard-os.jpg?v=20260928g",
     "video": "",
     "buyUrl": "https://buy.polar.sh/polar_cl_qd5d2QXy5emSRzevZRavrLuRUK16vH12H716s19rF6S",
     "url": "/planners/renewguard-os/",
@@ -66,7 +66,7 @@ var products = [
     "desc": "Track consignors, agreements, consigned inventory, fees, commission splits, refund adjustments and payouts in a private offline browser app.",
     "price": 11.99,
     "img": "/images/products/consignclear-os.webp",
-    "thumb": "/images/products/thumbs/consignclear-os-v3.webp",
+    "thumb": "/images/products/thumbs/consignclear-os-v3.webp?v=20260928g",
     "video": "",
     "buyUrl": "https://buy.polar.sh/polar_cl_D85h1GBWaERI0fcegEhl8vY6snPNJmMpzA5Yp1Nvl1Y",
     "url": "/planners/consignclear-os/",
@@ -79,7 +79,7 @@ var products = [
     "desc": "Track calibration due dates, certificate references, out-of-tolerance actions, service work, downtime and vendor performance in a private offline browser app.",
     "price": 11.99,
     "img": "/images/products/calibratrack-os.webp",
-    "thumb": "/images/products/thumbs/calibratrack-os-v3.webp",
+    "thumb": "/images/products/thumbs/calibratrack-os-v3.webp?v=20260928g",
     "video": "",
     "buyUrl": "https://buy.polar.sh/polar_cl_Mkgrb6HYsSJ7vkQXD6d6kKrhaE4lL235OxATJ0QWGGM",
     "url": "/planners/calibratrack-os/",
@@ -105,7 +105,7 @@ var products = [
     "desc": "Plan school or college in one private offline study system with 16 connected modules for timetables, subjects, assignments, exams, revision, goals, habits, focus sessions, notes, grades, analytics and a built-in AI assistant.",
     "price": 11.99,
     "img": "/images/products/ai-student-planner.jpg",
-    "thumb": "/images/products/thumbs/ai-student-planner.webp",
+    "thumb": "/images/products/thumbs/ai-student-planner.webp?v=20260928g",
     "video": "",
     "buyUrl": "",
     "url": "/planners/ai-student-planner/",
@@ -118,7 +118,7 @@ var products = [
     "desc": "Organize homeschooling for multiple children with a private offline parent dashboard, curriculum and lesson planning, calendar, assignments, gradebook, attendance and learning hours, analytics, reports, transcripts and a built-in AI assistant.",
     "price": 11.99,
     "img": "/images/products/digital-homeschool-planner.jpg",
-    "thumb": "/images/products/thumbs/digital-homeschool-planner.webp",
+    "thumb": "/images/products/thumbs/digital-homeschool-planner.webp?v=20260928g",
     "video": "",
     "buyUrl": "",
     "url": "/planners/digital-homeschool-planner/",

diff --git a/journal/index.html b/journal/index.html
@@ -201,6 +201,6 @@
     <div class="foot-bottom"><span>© 2026 Nexaly Planner. All rights reserved.</span><span>Made for people who like their days organized.</span></div>
   </div>
 </footer>
-<script src="/assets/js/main.js?v=4b9ec8816b4b"></script>
+<script src="/assets/js/main.js?v=938bbfec9e02"></script>
 </body>
 </html>
